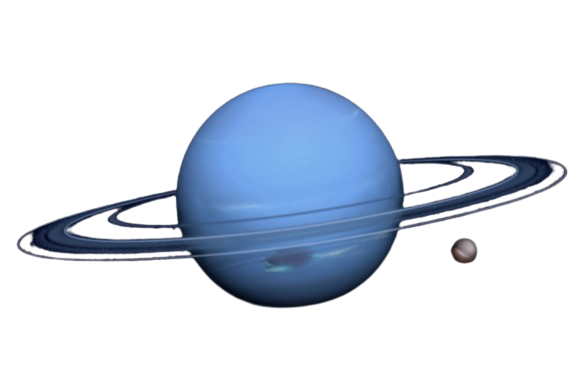
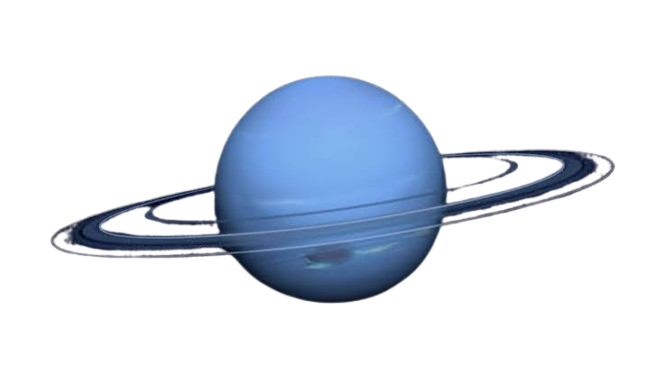
made the planets component

diff --git a/frontend/src/pages/Planets/Planets.jsx b/frontend/src/pages/Planets/Planets.jsx
@@ -1,10 +1,80 @@
 import React from 'react'
 import StarBackground from '../../components/Stars/Stars'
+import planets from '../../assets/planets'
+import "./Planets.css"
 
 const Planets = () => {
+  const planetData = [
+    {
+      number: "01",
+      name: "Mercury",
+      img: planets.mercury,
+    },
+
+    {
+      number: "02",
+      name: "Venus",
+      img: planets.venus,
+    },
+
+    {
+      number: "03",
+      name: "Earth",
+      img: planets.earth,
+    },
+
+    {
+      number: "04",
+      name: "Mars",
+      img: planets.mars,
+    },
+
+    {
+      number: "05",
+      name: "Jupiter",
+      img: planets.jupiter,
+    },
+
+    {
+      number: "06",
+      name: "Saturn",
+      img: planets.saturn,
+    },
+
+    {
+      number: "07",
+      name: "Uranus",
+      img: planets.uranus,
+    },
+
+    {
+      number: "08",
+      name: "Neptune",
+      img: planets.neptune,
+    },
+  ]
+
   return (
     <div className='planets'>
       <StarBackground />
+      <p>SO, WHAT'S OUT THERE?</p>
+
+      <h2>Meet the <span>8</span> worlds in our neighborhood</h2>
+
+      <div className="planet-container">
+        {planetData.map((planet) => (
+          <div className="planet-card" key={planet.number}>
+
+            <div className='planet-name'>
+              <span>{planet.number}</span>
+              <p>{planet.name}</p>
+            </div>
+
+            <img src={planet.img}
+              alt={planet.name} />
+          </div>
+        ))}
+      </div>
     </div>
   )
 }

diff --git a/frontend/src/pages/Planets/Planets.css b/frontend/src/pages/Planets/Planets.css
@@ -3,8 +3,65 @@
     min-height: 100vh;
     display: flex;
     flex-direction: column;
+    justify-content: center;
+    align-items: center;
     color: #F7F8FF;
     font-family: "Outfit", sans-serif;
     overflow: hidden;
+    padding: 40px 20px;
 }
 
+.planets p {
+    color: #8B7CFF;
+    letter-spacing: 2px;
+}
+
+.planets h2 {
+    margin-top: 8px;
+}
+
+.planets h2 span {
+    color: #8B7CFF;
+}
+
+.planet-container {
+    display: grid;
+    grid-template-columns: repeat(4, 1fr);
+    gap: 30px;
+    width: 100%;
+    max-width: 1100px;
+    margin-top: 50px;
+}
+
+
+.planet-card {
+    position: relative;
+    z-index: 1;
+    display: flex;
+    flex-direction: column;
+    border: 0.5px solid #8b7cff67;
+    border-radius: 10px;
+    gap: 5px;
+    background: #08091B;
+    overflow: hidden;
+    padding-bottom: 10px;
+}
+
+.planet-card img {
+    width: 60%;
+    height: 120px;
+    object-fit: contain;
+    align-self: center;
+    transition: transform 0.5s ease;
+}
+
+.planet-card:hover img {
+    transform: scale(1.08) rotate(5deg);
+}
+
+
+.planet-name {
+    display: flex;
+    gap: 20px;
+    padding: 15px;
+}

diff --git a/frontend/src/components/Stars/Stars.jsx b/frontend/src/components/Stars/Stars.jsx
@@ -1,6 +1,6 @@
 import "./Stars.css"
 
-const stars = Array.from({ length: 40 }, (_, i) => ({
+const stars = Array.from({ length: 70 }, (_, i) => ({
     id: i,
     left: Math.random() * 100,
     top: Math.random() * 100,
@@ -20,7 +20,6 @@ export default function StarBackground() {
                         height: `${star.size}px`,
                     }}
                 />
-
             ))}
         </div>
     )

diff --git a/frontend/src/pages/Home/Home.jsx b/frontend/src/pages/Home/Home.jsx
@@ -2,6 +2,7 @@ import React from 'react'
 import "./Home.css"
 import StarBackground from '../../components/Stars/Stars'
 import planets from '../../assets/planets'
+import Planets from '../Planets/Planets'
 
 const Home = () => {
     return (
@@ -42,6 +43,8 @@ const Home = () => {
                 </div>
 
             </div>
+
+            <Planets />
         </div>
     )
 }
